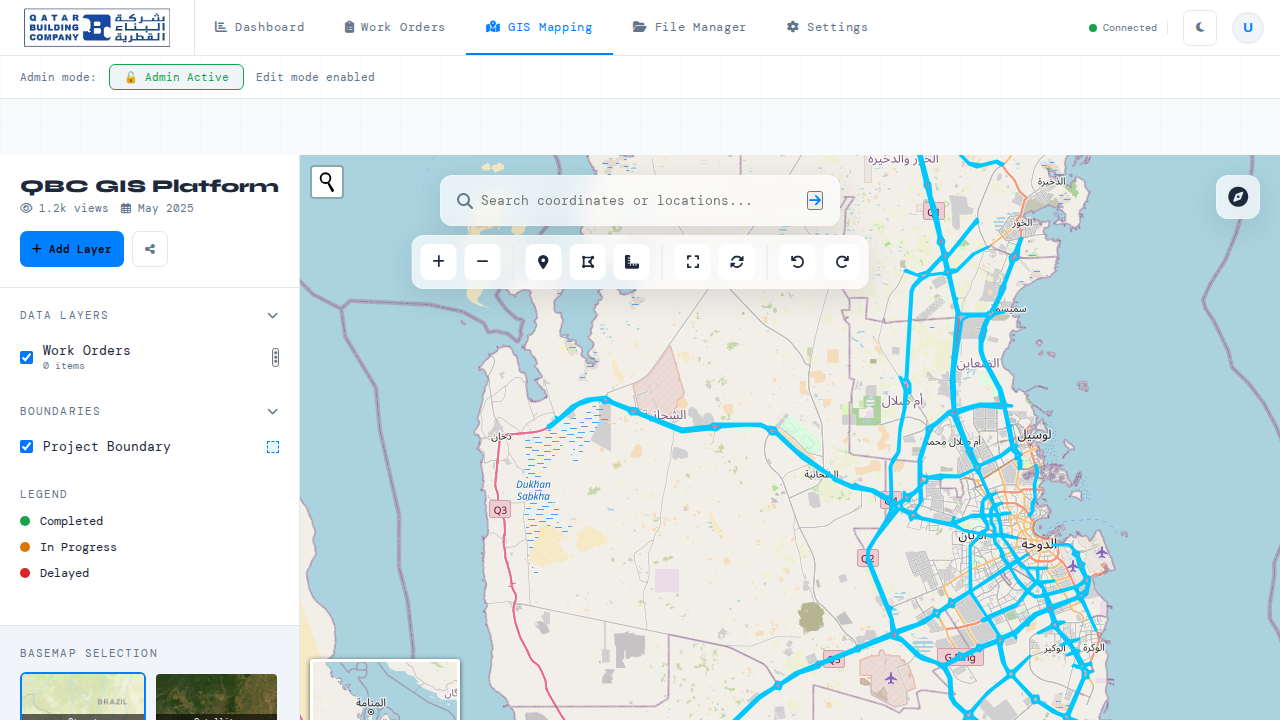
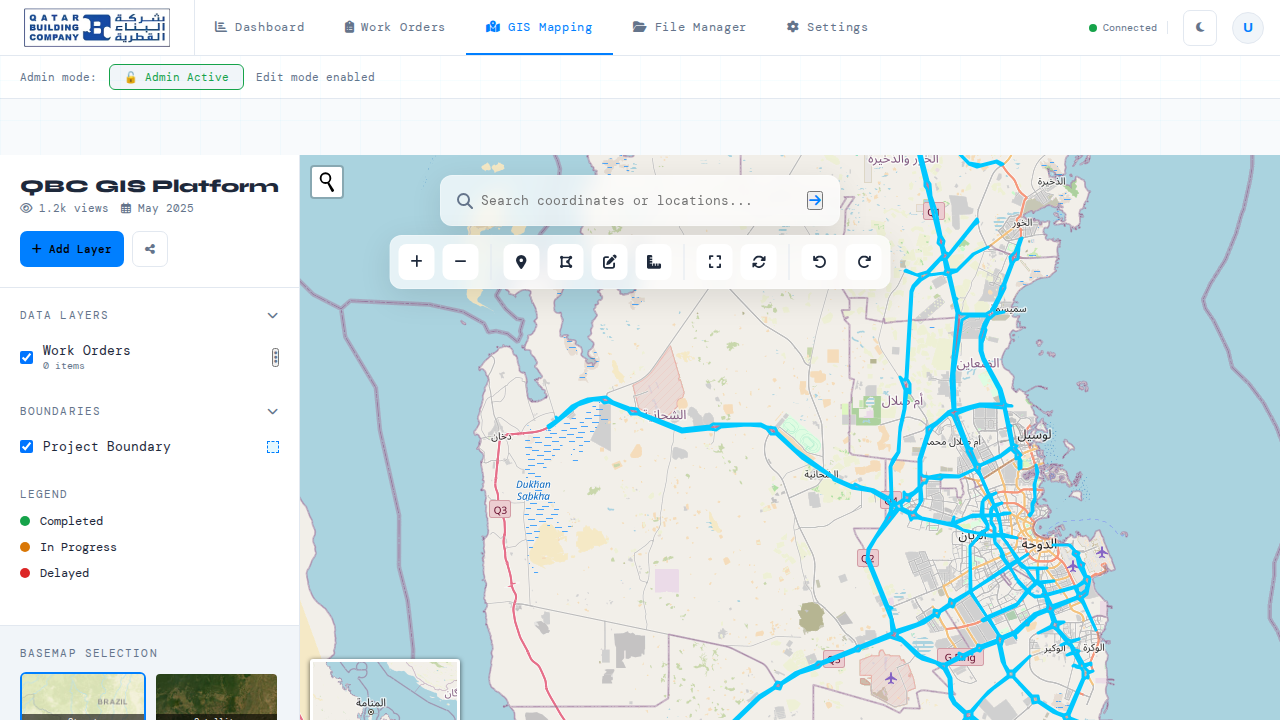
Redesign GIS Mapping page with modern interface and advanced editing tools
- Implement modern "glassmorphism" UI with collapsible sidebar and floating toolbar.
- Integrate advanced map layers (Esri Standard, Satellite, Hybrid, Terrain) and high-detail zoom (up to level 22).
- Add full geometry editing capabilities using Leaflet-Geoman for markers and polygons.
- Enable style customization for pins (color, size, icon symbols) and polygons (border, fill, weight, dash, opacity).
- Persist all geometry and stylistic changes to Supabase.
- Add GIS professional tools: Measurement (area/distance), Minimap, and Live Coordinates.
- Implement Administrative 'Global Default' save for map state persistence.
- Address design feedback: Remove compass icon and fix admin permission logic.

diff --git a/index.html b/index.html
@@ -808,7 +808,6 @@ nav{position:fixed;top:0;left:0;right:0;z-index:100;background:var(--surface);ba
       <div id="point-edit-actions" style="margin-top:12px; display:flex; gap:8px;"></div>
     </div>
 
-    <div class="north-arrow glass-panel"><i class="fas fa-compass"></i></div>
     <div class="map-coords glass-panel" id="map-coords-display">Lat: 0.000000 | Lng: 0.000000</div>
     <input type="file" id="kml-upload" style="display:none" accept=".kml,.kmz,.gpx,.csv" onchange="handleKMLUpload(event)">
   </div>
@@ -2065,7 +2064,7 @@ async function loadMapPresets() {
 }
 
 async function saveMapPresets() {
-  if (!supabaseClient || !isAdmin()) {
+  if (!supabaseClient || !isAdmin) {
     showToast("Admin access required", "error");
     return;
   }
@@ -2160,11 +2159,21 @@ function loadMarkers() {
       const style = r.style_settings || {};
       const color = style.color || defaultColor;
       const size = style.size || 12;
+      const icon = style.icon || 'circle';
+
+      let iconHtml = '';
+      if (icon === 'circle') {
+        iconHtml = `<div style='background-color:${color}; width:${size}px; height:${size}px; border-radius:50%; border:2px solid #fff; box-shadow:0 2px 4px rgba(0,0,0,0.3)'></div>`;
+      } else {
+        iconHtml = `<div style="color:${color}; font-size:${size}px; display:flex; align-items:center; justify-content:center; filter:drop-shadow(0 2px 2px rgba(0,0,0,0.5))">
+                      <i class="fas fa-${icon}"></i>
+                    </div>`;
+      }
 
       const m = L.marker([r.Lat, r.Lng], {
         icon: L.divIcon({
           className: 'custom-div-icon',
-          html: `<div style='background-color:${color}; width:${size}px; height:${size}px; border-radius:50%; border:2px solid #fff; box-shadow:0 2px 4px rgba(0,0,0,0.3)'></div>`,
+          html: iconHtml,
           iconSize: [size, size],
           iconAnchor: [size/2, size/2]
         }),
@@ -2256,6 +2265,7 @@ function showPointInfo(lat, lng, woData = null, isBoundary = false) {
 
   if (woData) {
     const style = woData.style_settings || {};
+    const icon = style.icon || 'circle';
     content += `
       <div style="color:var(--accent); font-weight:700; margin-bottom:5px;">Work Order: ${woData.WorkOrder}</div>
       <div style="font-size:10px; margin-bottom:8px;">${woData.Description || 'No description'}</div>
@@ -2270,6 +2280,17 @@ function showPointInfo(lat, lng, woData = null, isBoundary = false) {
           <div class="form-group">
             <label style="font-size:9px; display:block; margin-bottom:4px;">Size (${style.size || 12}px)</label>
             <input type="range" min="8" max="40" value="${style.size || 12}" style="width:100%;" onchange="updateObjectStyle('wo', '${woData.WorkOrder}', 'size', parseInt(this.value))">
+          </div>
+          <div class="form-group" style="grid-column: span 2;">
+            <label style="font-size:9px; display:block; margin-bottom:4px;">Icon Symbol</label>
+            <select style="width:100%; background:var(--surface2); color:var(--text); border:1px solid var(--border); font-size:10px; padding:4px;" onchange="updateObjectStyle('wo', '${woData.WorkOrder}', 'icon', this.value)">
+              <option value="circle" ${icon==='circle'?'selected':''}>Circle</option>
+              <option value="map-marker-alt" ${icon==='map-marker-alt'?'selected':''}>Pin</option>
+              <option value="info-circle" ${icon==='info-circle'?'selected':''}>Info</option>
+              <option value="exclamation-triangle" ${icon==='exclamation-triangle'?'selected':''}>Warning</option>
+              <option value="check-circle" ${icon==='check-circle'?'selected':''}>Check</option>
+              <option value="star" ${icon==='star'?'selected':''}>Star</option>
+            </select>
           </div>
         </div>
       </div>
